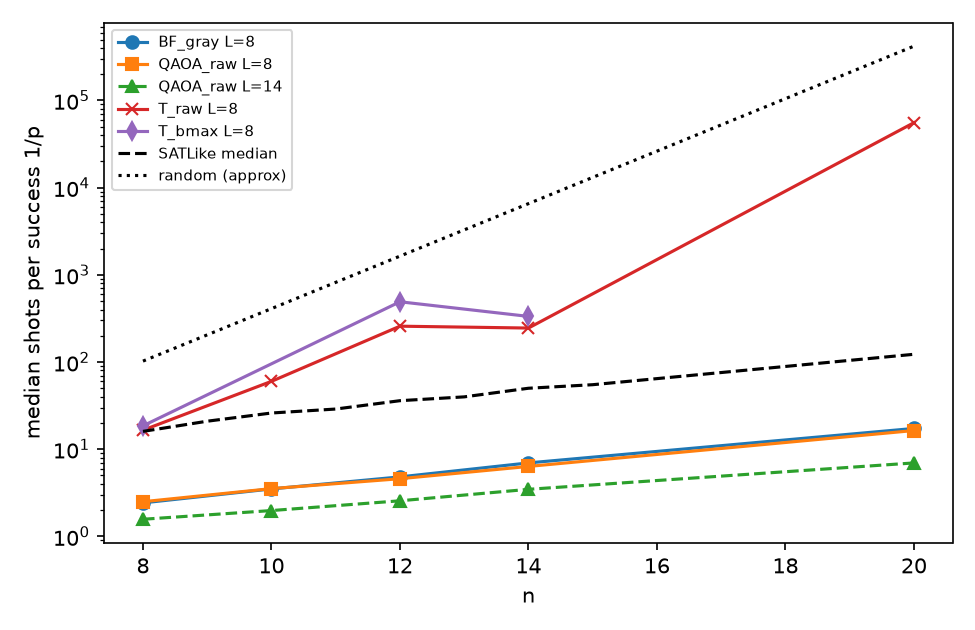
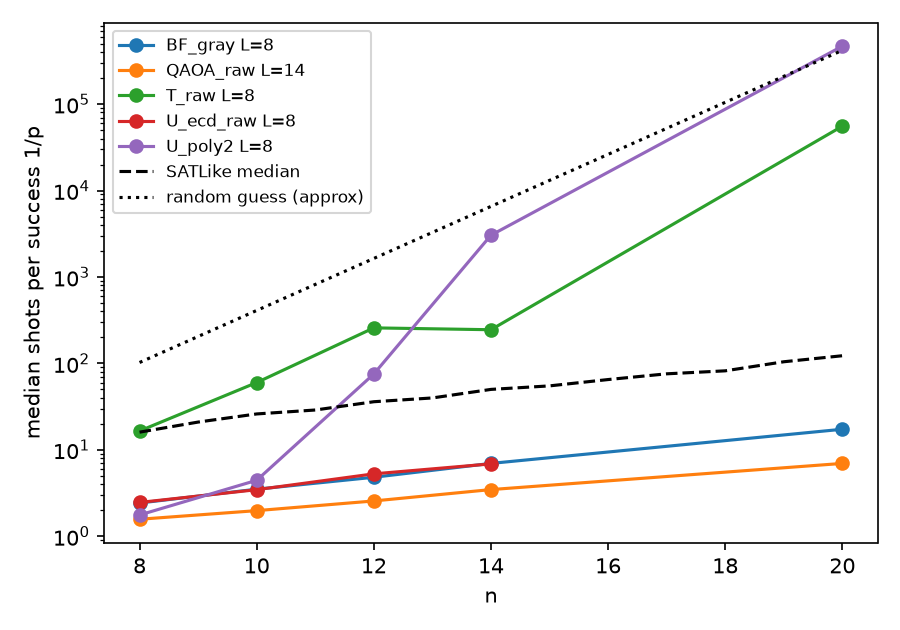
oct_explore: U_poly2 theory unitary results

diff --git a/oct_explore/results/table.md b/oct_explore/results/table.md
@@ -1,80 +1,30 @@
 | run | L | n | median 1/p | B90 1/p | random median | SATLike median/B90 | median vs SATLike |
 |---|---|---|---|---|---|---|---|
-| T_raw | 1 | 8 | 144.6 | 269.3 | 128 | 16/70 | 9.04x |
-| T_raw | 2 | 8 | 51.6 | 126.0 | 128 | 16/70 | 3.23x |
-| T_raw | 3 | 8 | 43.8 | 97.2 | 128 | 16/70 | 2.73x |
-| T_raw | 4 | 8 | 31.8 | 92.8 | 128 | 16/70 | 1.99x |
-| T_raw | 6 | 8 | 18.9 | 44.6 | 128 | 16/70 | 1.18x |
-| T_raw | 8 | 8 | 16.5 | 45.0 | 128 | 16/70 | 1.03x |
-| T_raw | 1 | 10 | 597.4 | 1335.1 | 512 | 26/111 | 22.98x |
-| T_raw | 2 | 10 | 236.4 | 624.2 | 512 | 26/111 | 9.09x |
-| T_raw | 3 | 10 | 208.5 | 580.8 | 512 | 26/111 | 8.02x |
-| T_raw | 4 | 10 | 108.5 | 578.0 | 512 | 26/111 | 4.17x |
-| T_raw | 6 | 10 | 67.4 | 304.8 | 512 | 26/111 | 2.59x |
-| T_raw | 8 | 10 | 60.0 | 202.8 | 512 | 26/111 | 2.31x |
-| T_raw | 1 | 12 | 2075.6 | 4415.7 | 2048 | 36/157 | 57.66x |
-| T_raw | 2 | 12 | 1005.8 | 4050.7 | 2048 | 36/157 | 27.94x |
-| T_raw | 3 | 12 | 1017.6 | 7954.5 | 2048 | 36/157 | 28.27x |
-| T_raw | 4 | 12 | 741.5 | 5943.5 | 2048 | 36/157 | 20.60x |
-| T_raw | 6 | 12 | 407.7 | 1828.0 | 2048 | 36/157 | 11.32x |
-| T_raw | 8 | 12 | 257.5 | 1390.7 | 2048 | 36/157 | 7.15x |
-| T_raw | 1 | 14 | 7287.1 | 18825.2 | 8192 | 50/208 | 145.74x |
-| T_raw | 2 | 14 | 1703.6 | 5541.2 | 8192 | 50/208 | 34.07x |
-| T_raw | 3 | 14 | 1406.2 | 4768.1 | 8192 | 50/208 | 28.12x |
-| T_raw | 4 | 14 | 643.9 | 3049.7 | 8192 | 50/208 | 12.88x |
-| T_raw | 6 | 14 | 357.9 | 1721.6 | 8192 | 50/208 | 7.16x |
-| T_raw | 8 | 14 | 245.1 | 1078.8 | 8192 | 50/208 | 4.90x |
-| T_raw | 1 | 20 | 397499.6 | 1204911.1 | 349525 | 123/524 | 3242.06x |
-| T_raw | 2 | 20 | 154748.1 | 8690951.1 | 349525 | 123/524 | 1262.14x |
-| T_raw | 3 | 20 | 438277.4 | 3929465.8 | 349525 | 123/524 | 3574.64x |
-| T_raw | 4 | 20 | 288599.7 | 2242089.5 | 349525 | 123/524 | 2353.86x |
-| T_raw | 6 | 20 | 92408.4 | 1202397.7 | 349525 | 123/524 | 753.69x |
-| T_raw | 8 | 20 | 55599.3 | 824795.3 | 349525 | 123/524 | 453.47x |
-| T_std | 1 | 8 | 144.6 | 269.3 | 128 | 16/70 | 9.04x |
-| T_std | 2 | 8 | 51.1 | 124.4 | 128 | 16/70 | 3.20x |
-| T_std | 3 | 8 | 43.5 | 96.2 | 128 | 16/70 | 2.72x |
-| T_std | 4 | 8 | 30.8 | 81.8 | 128 | 16/70 | 1.93x |
-| T_std | 6 | 8 | 22.5 | 45.5 | 128 | 16/70 | 1.40x |
-| T_std | 8 | 8 | 15.5 | 46.0 | 128 | 16/70 | 0.97x |
-| T_std | 1 | 10 | 597.4 | 1335.0 | 512 | 26/111 | 22.98x |
-| T_std | 2 | 10 | 234.2 | 580.0 | 512 | 26/111 | 9.01x |
-| T_std | 3 | 10 | 214.3 | 608.4 | 512 | 26/111 | 8.24x |
-| T_std | 4 | 10 | 114.1 | 537.7 | 512 | 26/111 | 4.39x |
-| T_std | 6 | 10 | 85.1 | 272.7 | 512 | 26/111 | 3.27x |
-| T_std | 8 | 10 | 47.6 | 308.3 | 512 | 26/111 | 1.83x |
-| T_std | 1 | 12 | 2075.6 | 4417.8 | 2048 | 36/157 | 57.66x |
-| T_std | 2 | 12 | 967.4 | 3360.5 | 2048 | 36/157 | 26.87x |
-| T_std | 3 | 12 | 1040.4 | 10249.7 | 2048 | 36/157 | 28.90x |
-| T_std | 4 | 12 | 556.8 | 3479.8 | 2048 | 36/157 | 15.47x |
-| T_std | 6 | 12 | 530.2 | 5546.9 | 2048 | 36/157 | 14.73x |
-| T_std | 8 | 12 | 326.7 | 3693.6 | 2048 | 36/157 | 9.07x |
-| T_std | 1 | 14 | 7286.9 | 18823.0 | 8192 | 50/208 | 145.74x |
-| T_std | 2 | 14 | 1803.6 | 5071.0 | 8192 | 50/208 | 36.07x |
-| T_std | 3 | 14 | 1562.6 | 4558.7 | 8192 | 50/208 | 31.25x |
-| T_std | 4 | 14 | 731.5 | 3357.4 | 8192 | 50/208 | 14.63x |
-| T_std | 6 | 14 | 378.8 | 2168.5 | 8192 | 50/208 | 7.58x |
-| T_std | 8 | 14 | 207.9 | 888.2 | 8192 | 50/208 | 4.16x |
-| T_std | 1 | 20 | 397768.7 | 1204769.4 | 349525 | 123/524 | 3244.25x |
-| C_raw | 1 | 8 | 128.5 | 257.0 | 128 | 16/70 | 8.03x |
-| C_raw | 2 | 8 | 48.2 | 95.4 | 128 | 16/70 | 3.01x |
-| C_raw | 3 | 8 | 30.8 | 80.1 | 128 | 16/70 | 1.93x |
-| C_raw | 4 | 8 | 24.0 | 95.6 | 128 | 16/70 | 1.50x |
-| C_raw | 6 | 8 | 17.7 | 45.5 | 128 | 16/70 | 1.11x |
-| C_raw | 8 | 8 | 14.5 | 42.1 | 128 | 16/70 | 0.90x |
-| C_raw | 1 | 10 | 514.0 | 1028.0 | 512 | 26/111 | 19.77x |
-| C_raw | 2 | 10 | 202.0 | 1593.8 | 512 | 26/111 | 7.77x |
-| C_raw | 3 | 10 | 105.8 | 887.0 | 512 | 26/111 | 4.07x |
-| C_raw | 4 | 10 | 82.7 | 659.1 | 512 | 26/111 | 3.18x |
-| C_raw | 6 | 10 | 58.0 | 249.3 | 512 | 26/111 | 2.23x |
-| C_raw | 8 | 10 | 50.4 | 267.6 | 512 | 26/111 | 1.94x |
-| C_raw | 1 | 12 | 2053.6 | 4109.9 | 2048 | 36/157 | 57.04x |
-| C_raw | 2 | 12 | 1147.8 | 6608.1 | 2048 | 36/157 | 31.88x |
-| C_raw | 3 | 12 | 920.6 | 6648.7 | 2048 | 36/157 | 25.57x |
-| C_raw | 4 | 12 | 836.5 | 6234.7 | 2048 | 36/157 | 23.24x |
-| C_raw | 6 | 12 | 574.2 | 4307.3 | 2048 | 36/157 | 15.95x |
-| C_raw | 8 | 12 | 360.6 | 3999.3 | 2048 | 36/157 | 10.02x |
-| C_raw | 1 | 14 | 8218.2 | 16460.0 | 8192 | 50/208 | 164.36x |
-| C_raw | 2 | 14 | 1444.8 | 8004.4 | 8192 | 50/208 | 28.90x |
+| BF_gray | 1 | 8 | 128.0 | 256.0 | 128 | 16/70 | 8.00x |
+| BF_gray | 2 | 8 | 20.1 | 39.0 | 128 | 16/70 | 1.26x |
+| BF_gray | 4 | 8 | 5.9 | 12.2 | 128 | 16/70 | 0.37x |
+| BF_gray | 6 | 8 | 3.6 | 7.7 | 128 | 16/70 | 0.22x |
+| BF_gray | 8 | 8 | 2.4 | 6.1 | 128 | 16/70 | 0.15x |
+| BF_gray | 1 | 10 | 512.0 | 1024.0 | 512 | 26/111 | 19.69x |
+| BF_gray | 2 | 10 | 43.8 | 113.1 | 512 | 26/111 | 1.69x |
+| BF_gray | 4 | 10 | 10.5 | 30.8 | 512 | 26/111 | 0.40x |
+| BF_gray | 6 | 10 | 5.3 | 16.6 | 512 | 26/111 | 0.20x |
+| BF_gray | 8 | 10 | 3.5 | 10.1 | 512 | 26/111 | 0.13x |
+| BF_gray | 1 | 12 | 2048.0 | 4096.0 | 2048 | 36/157 | 56.89x |
+| BF_gray | 2 | 12 | 91.7 | 199.4 | 2048 | 36/157 | 2.55x |
+| BF_gray | 4 | 12 | 15.1 | 49.5 | 2048 | 36/157 | 0.42x |
+| BF_gray | 6 | 12 | 7.5 | 29.5 | 2048 | 36/157 | 0.21x |
+| BF_gray | 8 | 12 | 4.8 | 23.1 | 2048 | 36/157 | 0.13x |
+| BF_gray | 1 | 14 | 8192.0 | 16384.0 | 8192 | 50/208 | 163.84x |
+| BF_gray | 2 | 14 | 200.4 | 536.2 | 8192 | 50/208 | 4.01x |
+| BF_gray | 4 | 14 | 25.9 | 85.2 | 8192 | 50/208 | 0.52x |
+| BF_gray | 6 | 14 | 11.5 | 46.5 | 8192 | 50/208 | 0.23x |
+| BF_gray | 8 | 14 | 7.0 | 35.7 | 8192 | 50/208 | 0.14x |
+| BF_gray | 1 | 20 | 349525.6 | 1048576.6 | 349525 | 123/524 | 2850.77x |
+| BF_gray | 2 | 20 | 2154.8 | 5261.0 | 349525 | 123/524 | 17.58x |
+| BF_gray | 4 | 20 | 122.7 | 373.6 | 349525 | 123/524 | 1.00x |
+| BF_gray | 6 | 20 | 37.7 | 174.1 | 349525 | 123/524 | 0.31x |
+| BF_gray | 8 | 20 | 17.3 | 131.6 | 349525 | 123/524 | 0.14x |
 | QAOA_raw | 1 | 8 | 20.0 | 39.1 | 128 | 16/70 | 1.25x |
 | QAOA_raw | 2 | 8 | 9.0 | 18.8 | 128 | 16/70 | 0.56x |
 | QAOA_raw | 3 | 8 | 5.9 | 12.4 | 128 | 16/70 | 0.37x |
@@ -115,46 +65,81 @@
 | QAOA_raw | 8 | 20 | 16.4 | 54.2 | 349525 | 123/524 | 0.13x |
 | QAOA_raw | 10 | 20 | 13.2 | 48.4 | 349525 | 123/524 | 0.11x |
 | QAOA_raw | 14 | 20 | 7.0 | 92.3 | 349525 | 123/524 | 0.06x |
-| BF_gray | 1 | 8 | 128.0 | 256.0 | 128 | 16/70 | 8.00x |
-| BF_gray | 2 | 8 | 20.1 | 39.0 | 128 | 16/70 | 1.26x |
-| BF_gray | 4 | 8 | 5.9 | 12.2 | 128 | 16/70 | 0.37x |
-| BF_gray | 6 | 8 | 3.6 | 7.7 | 128 | 16/70 | 0.22x |
-| BF_gray | 8 | 8 | 2.4 | 6.1 | 128 | 16/70 | 0.15x |
-| BF_gray | 1 | 10 | 512.0 | 1024.0 | 512 | 26/111 | 19.69x |
-| BF_gray | 2 | 10 | 43.8 | 113.1 | 512 | 26/111 | 1.69x |
-| BF_gray | 4 | 10 | 10.5 | 30.8 | 512 | 26/111 | 0.40x |
-| BF_gray | 6 | 10 | 5.3 | 16.6 | 512 | 26/111 | 0.20x |
-| BF_gray | 8 | 10 | 3.5 | 10.1 | 512 | 26/111 | 0.13x |
-| BF_gray | 1 | 12 | 2048.0 | 4096.0 | 2048 | 36/157 | 56.89x |
-| BF_gray | 2 | 12 | 91.7 | 199.4 | 2048 | 36/157 | 2.55x |
-| BF_gray | 4 | 12 | 15.1 | 49.5 | 2048 | 36/157 | 0.42x |
-| BF_gray | 6 | 12 | 7.5 | 29.5 | 2048 | 36/157 | 0.21x |
-| BF_gray | 8 | 12 | 4.8 | 23.1 | 2048 | 36/157 | 0.13x |
-| BF_gray | 1 | 14 | 8192.0 | 16384.0 | 8192 | 50/208 | 163.84x |
-| BF_gray | 2 | 14 | 200.4 | 536.2 | 8192 | 50/208 | 4.01x |
-| BF_gray | 4 | 14 | 25.9 | 85.2 | 8192 | 50/208 | 0.52x |
-| BF_gray | 6 | 14 | 11.5 | 46.5 | 8192 | 50/208 | 0.23x |
-| BF_gray | 8 | 14 | 7.0 | 35.7 | 8192 | 50/208 | 0.14x |
-| BF_gray | 1 | 20 | 349525.6 | 1048576.6 | 349525 | 123/524 | 2850.77x |
-| BF_gray | 2 | 20 | 2154.8 | 5261.0 | 349525 | 123/524 | 17.58x |
-| BF_gray | 4 | 20 | 122.7 | 373.6 | 349525 | 123/524 | 1.00x |
-| BF_gray | 6 | 20 | 37.7 | 174.1 | 349525 | 123/524 | 0.31x |
-| BF_gray | 8 | 20 | 17.3 | 131.6 | 349525 | 123/524 | 0.14x |
-| T_raw_deep | 1 | 8 | 144.6 | 269.3 | 128 | 16/70 | 9.04x |
-| T_raw_deep | 2 | 8 | 51.6 | 126.0 | 128 | 16/70 | 3.22x |
-| T_raw_deep | 4 | 8 | 32.3 | 81.3 | 128 | 16/70 | 2.02x |
-| T_raw_deep | 8 | 8 | 17.3 | 42.1 | 128 | 16/70 | 1.08x |
-| T_raw_deep | 12 | 8 | 11.7 | 39.9 | 128 | 16/70 | 0.73x |
-| T_raw_deep | 16 | 8 | 9.9 | 34.9 | 128 | 16/70 | 0.62x |
-| T_raw_deep | 1 | 12 | 2075.5 | 4414.6 | 2048 | 36/157 | 57.65x |
-| T_raw_deep | 2 | 12 | 1006.4 | 4049.2 | 2048 | 36/157 | 27.96x |
-| T_raw_deep | 4 | 12 | 862.1 | 10201.0 | 2048 | 36/157 | 23.95x |
-| T_raw_deep | 8 | 12 | 640.5 | 8727.3 | 2048 | 36/157 | 17.79x |
-| T_raw_deep | 12 | 12 | 1323.8 | 22082.5 | 2048 | 36/157 | 36.77x |
-| T_raw_deep | 16 | 12 | 397.0 | 10477.0 | 2048 | 36/157 | 11.03x |
-| T_raw_deep | 1 | 14 | 7288.4 | 18819.0 | 8192 | 50/208 | 145.77x |
-| T_raw_deep | 2 | 14 | 1702.8 | 5543.5 | 8192 | 50/208 | 34.06x |
-| T_raw_deep | 4 | 14 | 604.2 | 2670.8 | 8192 | 50/208 | 12.08x |
-| T_raw_deep | 8 | 14 | 266.1 | 1780.0 | 8192 | 50/208 | 5.32x |
-| T_raw_deep | 12 | 14 | 238.8 | 2035.3 | 8192 | 50/208 | 4.78x |
-| T_raw_deep | 16 | 14 | 195.0 | 2297.5 | 8192 | 50/208 | 3.90x |
+| T_raw | 1 | 8 | 144.6 | 269.3 | 128 | 16/70 | 9.04x |
+| T_raw | 2 | 8 | 51.6 | 126.0 | 128 | 16/70 | 3.23x |
+| T_raw | 3 | 8 | 43.8 | 97.2 | 128 | 16/70 | 2.73x |
+| T_raw | 4 | 8 | 31.8 | 92.8 | 128 | 16/70 | 1.99x |
+| T_raw | 6 | 8 | 18.9 | 44.6 | 128 | 16/70 | 1.18x |
+| T_raw | 8 | 8 | 16.5 | 45.0 | 128 | 16/70 | 1.03x |
+| T_raw | 1 | 10 | 597.4 | 1335.1 | 512 | 26/111 | 22.98x |
+| T_raw | 2 | 10 | 236.4 | 624.2 | 512 | 26/111 | 9.09x |
+| T_raw | 3 | 10 | 208.5 | 580.8 | 512 | 26/111 | 8.02x |
+| T_raw | 4 | 10 | 108.5 | 578.0 | 512 | 26/111 | 4.17x |
+| T_raw | 6 | 10 | 67.4 | 304.8 | 512 | 26/111 | 2.59x |
+| T_raw | 8 | 10 | 60.0 | 202.8 | 512 | 26/111 | 2.31x |
+| T_raw | 1 | 12 | 2075.6 | 4415.7 | 2048 | 36/157 | 57.66x |
+| T_raw | 2 | 12 | 1005.8 | 4050.7 | 2048 | 36/157 | 27.94x |
+| T_raw | 3 | 12 | 1017.6 | 7954.5 | 2048 | 36/157 | 28.27x |
+| T_raw | 4 | 12 | 741.5 | 5943.5 | 2048 | 36/157 | 20.60x |
+| T_raw | 6 | 12 | 407.7 | 1828.0 | 2048 | 36/157 | 11.32x |
+| T_raw | 8 | 12 | 257.5 | 1390.7 | 2048 | 36/157 | 7.15x |
+| T_raw | 1 | 14 | 7287.1 | 18825.2 | 8192 | 50/208 | 145.74x |
+| T_raw | 2 | 14 | 1703.6 | 5541.2 | 8192 | 50/208 | 34.07x |
+| T_raw | 3 | 14 | 1406.2 | 4768.1 | 8192 | 50/208 | 28.12x |
+| T_raw | 4 | 14 | 643.9 | 3049.7 | 8192 | 50/208 | 12.88x |
+| T_raw | 6 | 14 | 357.9 | 1721.6 | 8192 | 50/208 | 7.16x |
+| T_raw | 8 | 14 | 245.1 | 1078.8 | 8192 | 50/208 | 4.90x |
+| T_raw | 1 | 20 | 397499.6 | 1204911.1 | 349525 | 123/524 | 3242.06x |
+| T_raw | 2 | 20 | 154748.1 | 8690951.1 | 349525 | 123/524 | 1262.14x |
+| T_raw | 3 | 20 | 438277.4 | 3929465.8 | 349525 | 123/524 | 3574.64x |
+| T_raw | 4 | 20 | 288599.7 | 2242089.5 | 349525 | 123/524 | 2353.86x |
+| T_raw | 6 | 20 | 92408.4 | 1202397.7 | 349525 | 123/524 | 753.69x |
+| T_raw | 8 | 20 | 55599.3 | 824795.3 | 349525 | 123/524 | 453.47x |
+| U_ecd_raw | 1 | 8 | 137.6 | 267.8 | 128 | 16/70 | 8.60x |
+| U_ecd_raw | 2 | 8 | 20.7 | 38.0 | 128 | 16/70 | 1.29x |
+| U_ecd_raw | 4 | 8 | 6.4 | 13.5 | 128 | 16/70 | 0.40x |
+| U_ecd_raw | 6 | 8 | 3.7 | 7.4 | 128 | 16/70 | 0.23x |
+| U_ecd_raw | 8 | 8 | 2.5 | 6.1 | 128 | 16/70 | 0.15x |
+| U_ecd_raw | 1 | 10 | 538.3 | 1168.2 | 512 | 26/111 | 20.70x |
+| U_ecd_raw | 2 | 10 | 44.9 | 112.2 | 512 | 26/111 | 1.73x |
+| U_ecd_raw | 4 | 10 | 12.5 | 38.7 | 512 | 26/111 | 0.48x |
+| U_ecd_raw | 6 | 10 | 5.2 | 16.6 | 512 | 26/111 | 0.20x |
+| U_ecd_raw | 8 | 10 | 3.5 | 9.9 | 512 | 26/111 | 0.13x |
+| U_ecd_raw | 1 | 12 | 2216.5 | 4676.6 | 2048 | 36/157 | 61.57x |
+| U_ecd_raw | 2 | 12 | 97.9 | 209.9 | 2048 | 36/157 | 2.72x |
+| U_ecd_raw | 4 | 12 | 23.3 | 68.6 | 2048 | 36/157 | 0.65x |
+| U_ecd_raw | 6 | 12 | 7.7 | 28.6 | 2048 | 36/157 | 0.21x |
+| U_ecd_raw | 8 | 12 | 5.3 | 20.0 | 2048 | 36/157 | 0.15x |
+| U_ecd_raw | 1 | 14 | 7317.5 | 17758.8 | 8192 | 50/208 | 146.35x |
+| U_ecd_raw | 2 | 14 | 204.7 | 503.4 | 8192 | 50/208 | 4.09x |
+| U_ecd_raw | 4 | 14 | 31.6 | 110.8 | 8192 | 50/208 | 0.63x |
+| U_ecd_raw | 6 | 14 | 11.7 | 47.3 | 8192 | 50/208 | 0.23x |
+| U_ecd_raw | 8 | 14 | 6.9 | 36.3 | 8192 | 50/208 | 0.14x |
+| U_ecd_raw | 1 | 20 | 423503.6 | 1691140.2 | 349525 | 123/524 | 3454.15x |
+| U_ecd_raw | 2 | 20 | 2109.4 | 6856.9 | 349525 | 123/524 | 17.20x |
+| U_ecd_raw | 4 | 20 | 610.5 | 6259.7 | 349525 | 123/524 | 4.98x |
+| U_poly2 | 1 | 8 | 128.0 | 256.0 | 128 | 16/70 | 8.00x |
+| U_poly2 | 2 | 8 | 17.1 | 32.7 | 128 | 16/70 | 1.07x |
+| U_poly2 | 4 | 8 | 4.2 | 8.9 | 128 | 16/70 | 0.26x |
+| U_poly2 | 6 | 8 | 2.4 | 5.0 | 128 | 16/70 | 0.15x |
+| U_poly2 | 8 | 8 | 1.8 | 3.6 | 128 | 16/70 | 0.11x |
+| U_poly2 | 1 | 10 | 512.0 | 1024.0 | 512 | 26/111 | 19.69x |
+| U_poly2 | 2 | 10 | 41.0 | 95.2 | 512 | 26/111 | 1.58x |
+| U_poly2 | 4 | 10 | 9.8 | 24.0 | 512 | 26/111 | 0.38x |
+| U_poly2 | 6 | 10 | 5.9 | 14.1 | 512 | 26/111 | 0.23x |
+| U_poly2 | 8 | 10 | 4.4 | 12.8 | 512 | 26/111 | 0.17x |
+| U_poly2 | 1 | 12 | 2048.0 | 4096.0 | 2048 | 36/157 | 56.89x |
+| U_poly2 | 2 | 12 | 110.1 | 241.1 | 2048 | 36/157 | 3.06x |
+| U_poly2 | 4 | 12 | 34.7 | 160.5 | 2048 | 36/157 | 0.96x |
+| U_poly2 | 6 | 12 | 48.4 | 330.8 | 2048 | 36/157 | 1.34x |
+| U_poly2 | 8 | 12 | 75.4 | 770.5 | 2048 | 36/157 | 2.09x |
+| U_poly2 | 1 | 14 | 8192.0 | 16384.0 | 8192 | 50/208 | 163.84x |
+| U_poly2 | 2 | 14 | 330.2 | 922.6 | 8192 | 50/208 | 6.60x |
+| U_poly2 | 4 | 14 | 260.3 | 2174.0 | 8192 | 50/208 | 5.21x |
+| U_poly2 | 6 | 14 | 1015.5 | 17653.8 | 8192 | 50/208 | 20.31x |
+| U_poly2 | 8 | 14 | 3040.5 | 42312.3 | 8192 | 50/208 | 60.81x |
+| U_poly2 | 1 | 20 | 349525.5 | 1048576.2 | 349525 | 123/524 | 2850.77x |
+| U_poly2 | 2 | 20 | 13726.5 | 42363.2 | 349525 | 123/524 | 111.95x |
+| U_poly2 | 4 | 20 | 61602.2 | 467728.2 | 349525 | 123/524 | 502.43x |
+| U_poly2 | 6 | 20 | 282876.2 | 2081991.4 | 349525 | 123/524 | 2307.17x |
+| U_poly2 | 8 | 20 | 468511.5 | 3850968.2 | 349525 | 123/524 | 3821.24x |

diff --git a/oct_explore/LOG.md b/oct_explore/LOG.md
@@ -177,3 +177,15 @@ Roles confirmed by ablation:
 
 
 Compare: BF_gray L=8 n=14=7.0/36, n=20=17/132; QAOA L=8 n=20=16/54; SATLike n=20~124/~530.
+
+## U_poly2 finished (19:54 CST)
+
+| L | n=8 | n=10 | n=12 | n=14 | n=20 |
+|---|---|---|---|---|---|
+| 1 | 128.0/256.0 | 512.0/1024.0 | 2048.0/4096.0 | 8192.0/16384.0 | 349525.5/1048576.2 |
+| 2 | 17.1/32.7 | 41.0/95.2 | 110.1/241.1 | 330.2/922.6 | 13726.5/42363.2 |
+| 4 | 4.2/8.9 | 9.8/24.0 | 34.7/160.5 | 260.3/2174.0 | 61602.2/467728.2 |
+| 6 | 2.4/5.0 | 5.9/14.1 | 48.4/330.8 | 1015.5/17653.8 | 282876.2/2081991.4 |
+| 8 | 1.8/3.6 | 4.4/12.8 | 75.4/770.5 | 3040.5/42312.3 | 468511.5/3850968.2 |
+
+Key: n=14 L=4: 260.3/2174.0; n=20 L=4: 61602.2/467728.2; n=14 L=8: 3040.5/42312.3; n=20 L=8: 468511.5/3850968.2
